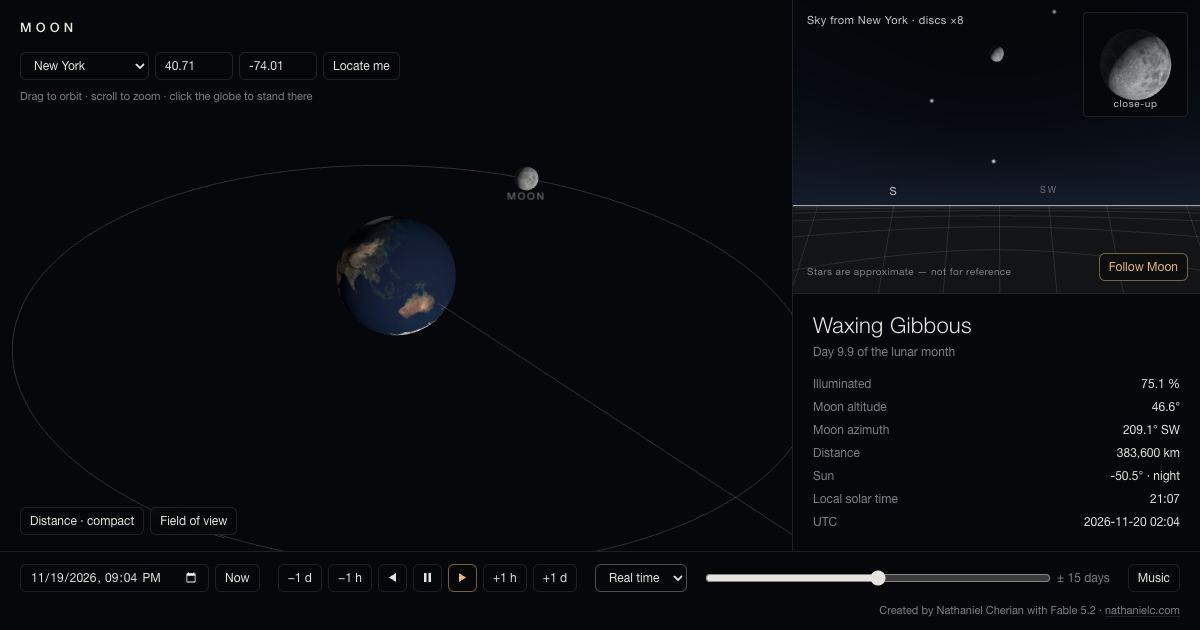
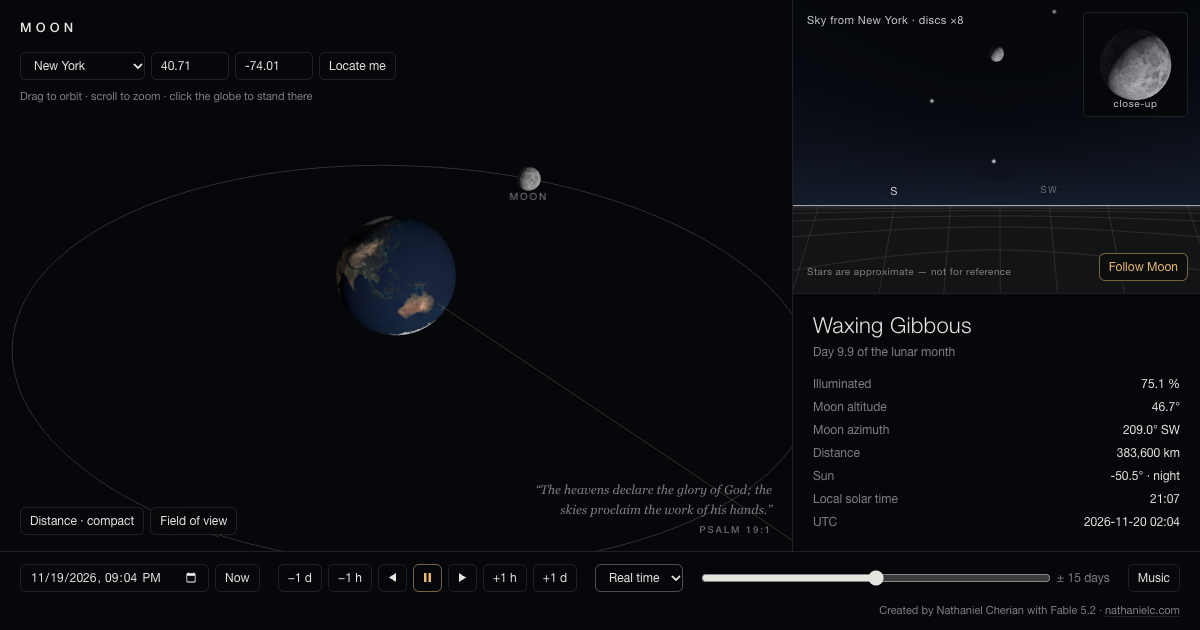
moon sketch: add verse, new title, refresh screenshots

diff --git a/nathan/sketches/templates/sketches/moon.html b/nathan/sketches/templates/sketches/moon.html
@@ -66,6 +66,17 @@
   #sky .card.minor > span { opacity: .5; font-size: 9px; }
   #sky .mark > span { transform: translate(-50%, calc(13px + var(--row, 0) * 15px)); letter-spacing: .04em; text-transform: none; font-size: 10.5px; }
   #sky .mark::before { content: ''; position: absolute; left: 0; top: 2px; width: 1px; height: calc(9px + var(--row, 0) * 15px); background: rgba(255, 255, 255, .5); }
+  /* verse */
+  .verse {
+    position: absolute; right: 20px; bottom: 16px; max-width: 250px; text-align: right; pointer-events: none;
+    font: italic 12.5px/1.55 Georgia, "Iowan Old Style", "Times New Roman", serif; color: var(--mute);
+  }
+  .verse cite {
+    display: block; margin-top: 5px; font: 500 9.5px/1 ui-sans-serif, -apple-system, "Helvetica Neue", Arial, sans-serif;
+    letter-spacing: .2em; text-transform: uppercase; opacity: .8;
+  }
+  .verse.onload { right: 0; left: 0; bottom: 9vh; margin: 0 auto; max-width: 280px; padding: 0 20px; text-align: center; }
+
   /* loading screen */
   #loading {
     position: fixed; inset: 0; z-index: 20; background: var(--bg);
@@ -153,6 +164,7 @@
     .bl { left: 12px; bottom: 10px; }
     h1 { margin-bottom: 8px; }
     .hint { display: none; }
+    #space .verse { display: none; }                             /* no room beside the buttons; it stays on the loading screen */
     input[type=number] { width: 60px; }
     #place { max-width: 130px; }
     #facts { padding: 9px 14px; display: flex; align-items: baseline; justify-content: space-between; gap: 12px; }
@@ -182,6 +194,7 @@
   <h2>Moon</h2>
   <div class="track" aria-hidden="true"><div class="fill" id="loadFill"></div></div>
   <p id="loadMsg">Loading</p>
+  <blockquote class="verse onload">“The heavens declare the glory of God; the skies proclaim the work of his hands.”<cite>Psalm 19:1</cite></blockquote>
 </div>
 <script>
   // If the 3D library never arrives (offline, CDN blocked), say so instead of spinning forever.
@@ -209,6 +222,7 @@
       </div>
       <p class="hint">Drag to orbit · scroll to zoom · click the globe to stand there</p>
     </header>
+    <blockquote class="verse">“The heavens declare the glory of God; the skies proclaim the work of his hands.”<cite>Psalm 19:1</cite></blockquote>
     <div class="hud bl"><button id="scale" title="Toggle Earth–Moon distance scale">Distance · compact</button><button id="beamBtn" title="Show what the sky view on the right is looking at">Field of view</button></div>
   </section>
 

diff --git a/nathan/sketches/views.py b/nathan/sketches/views.py
@@ -177,7 +177,7 @@ def rabbithole(request):
 
 def moon(request):
     meta = {
-        "title":"Moon",
+        "title":"Live 3D Moon Phase Simulator",
         "description":"A live 3D model of the Sun, Earth and Moon next to the sky from wherever you stand. Scrub through a lunar month and watch where the phases come from.",
         "image":"meta/moon.png"
     }
